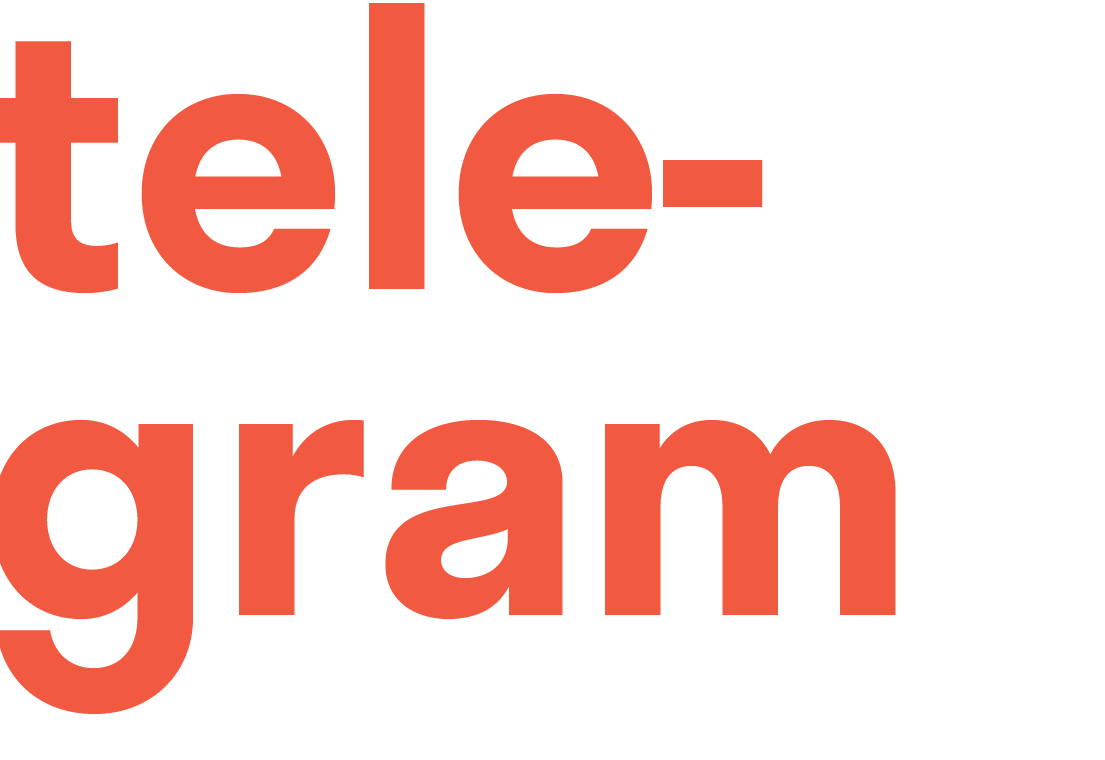
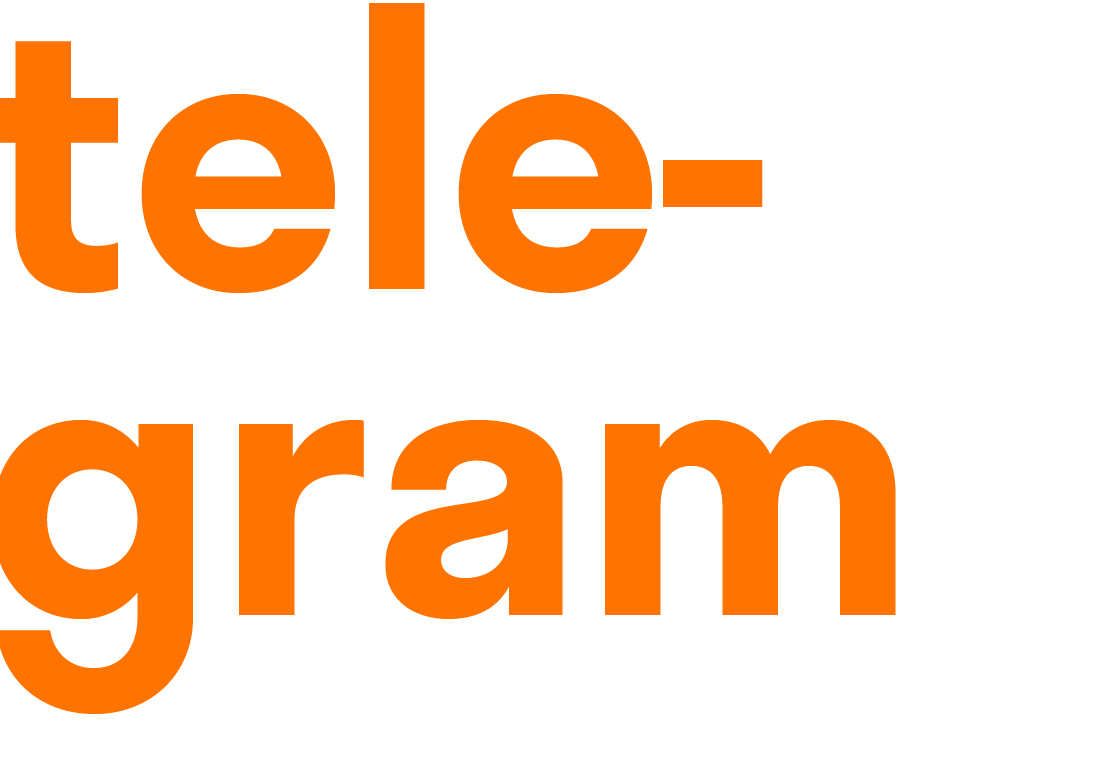
color change

Changed region(s): [[0.0, 0.0, 0.7077, 0.3934], [0.2154, 0.5447, 0.8308, 0.8171], [0.0, 0.5447, 0.1846, 0.9382]]

diff --git a/main.css b/main.css
@@ -26,7 +26,7 @@ body{
     font-family: 'avenir_medium';
     width: 320px;
     text-align: left;
-    color: #5b999e;
+    color: #0096b1;
     line-height: 1.2;
   }
 html {
@@ -45,7 +45,7 @@ h1 {
     margin-top: 0;
   font-family: 'stratos';
   font-size: 50px;
-  color: #f15a40; /*dunkelblau 165762  hellblau:5b999e  gelb:f29e00*/
+  color: #ff7400; /*dunkelblau 165762  hellblau:5b999e  gelb:f29e00*/
 }
 .desktop{
     display:block;
@@ -66,7 +66,7 @@ header a{
   
   font-size: 20px;
   text-decoration: none;
-  color: #5b999e;
+  color: #0096b1;
 }
 .menu-collapsible {
   cursor: pointer;
@@ -88,14 +88,14 @@ header a{
   outline: none;
 }
 .menu-collapsible a:hover, .menu-link a:hover, .menu-items>a:hover{
-  background: -webkit-repeating-linear-gradient(#ffffff00, #ffffff00 65%, #f15a40 60.1%, #f15a40 100%);
-  text-decoration-color: #f15a40;
-  border-bottom: 2px solid #f15a40;
+  background: -webkit-repeating-linear-gradient(#ffffff00, #ffffff00 65%, #ff7400 60.1%, #ff7400 100%);
+  text-decoration-color: #ff7400;
+  border-bottom: 2px solid #ff7400;
 }
 .underline{
-  background: -webkit-repeating-linear-gradient(#ffffff00, #ffffff00 65%, #f15a40 60.1%, #f15a40 100%);
-  text-decoration-color: #f15a40;
-  border-bottom: 2px solid #f15a40;
+  background: -webkit-repeating-linear-gradient(#ffffff00, #ffffff00 65%, #ff7400 60.1%, #ff7400 100%);
+  text-decoration-color: #ff7400;
+  border-bottom: 2px solid #ff7400;
 }
 .collapsibleItems {
   padding: 0 20px;
@@ -109,10 +109,10 @@ header a{
 }
 
 .text, .text>p, p, p a, .text>a, .nextproject, .nextproject>a{
-  color: #5b999e;
+  color: #0096b1;
 }
 .main_projects p{
-  color:#5b999e;
+  color:#0096b1;
 }
 .overlay .text{
     margin: .5em 0 0em .5em;
@@ -170,7 +170,7 @@ main{
   margin: 10vh 0;
 }
 .project-link a{
-  color: #f15a40;
+  color: #ff7400;
   font-family: "stratos";
   font-size: 30px;;
 }
@@ -203,7 +203,7 @@ main{
   left: 2em;
 }
 .imprint-privacy, .imprint-privacy a, .imprint-privacy-mini, .imprint-privacy-mini a {
-  color: #5b999e;
+  color: #0096b1;
   font-family:"avenir_light";
   font-size: 18px;
   text-decoration: none;
@@ -364,7 +364,7 @@ main{
     height: inherit;
     width: inherit;
     transition: .5s ease-in-out;
-    background-color: #16576262; /*165762*/
+    background-color: #0096b162; /*165762*/
   }
   .colorbox_kakerlakenpopo{
     opacity: 1;
@@ -376,7 +376,7 @@ main{
     height: inherit;
     width: inherit;
     transition: .5s ease-in-out;
-    background-color: #16576262; /*165762*/
+    background-color: #0096b162; /*165762*/
   }
 
 
@@ -393,44 +393,13 @@ main{
 }
 .linieBeschreibungRot{
     padding-top: 3em;
-    border-bottom: 1px solid #f15a40;
+    border-bottom: 1px solid #ff7400;
     border-width: 2px;
-    color:#f15a40;
-    font-family: 'avenir_book';
-    font-size: 24px;
-}
-.linieBeschreibungBlau{
-    margin-bottom: 2em;
-    border-bottom: 1px solid #165762;
-    border-width: 2px;
-    color:#165762;
-    font-family: 'avenir_book';
-    font-size: 24px;
-}
-.linieBeschreibung{
-    padding-top: 3em;
-    border-bottom: 1px solid #5b999e;
-    border-width: 2px;
-    color:#5b999e;
+    color:#ff7400;
     font-family: 'avenir_book';
     font-size: 24px;
 }
 
-.linieBeschreibungRot a, .linieBeschreibungBlau a, .linieBeschreibung a{
-    font-size: 18px;
-    font-weight: bold;
-}
-
-.vertical{
-  display: none;
-    transform: translateX(-3vw);
-    writing-mode: vertical-rl;
-    color: #f15a40;
-    background-color: #0B2D33;
-    font-family:'avenir_light';
-    font-size: 18px;
-    padding: 1em .2em 1em .4em ;
-}
 .item img{
   filter: grayscale(100%);
 }

diff --git a/about.html b/about.html
@@ -111,7 +111,7 @@
 </body>
 <style>
     .text p {
-        color: #5b999e;
+        color: #0096b1;
     }
 </style>
 
